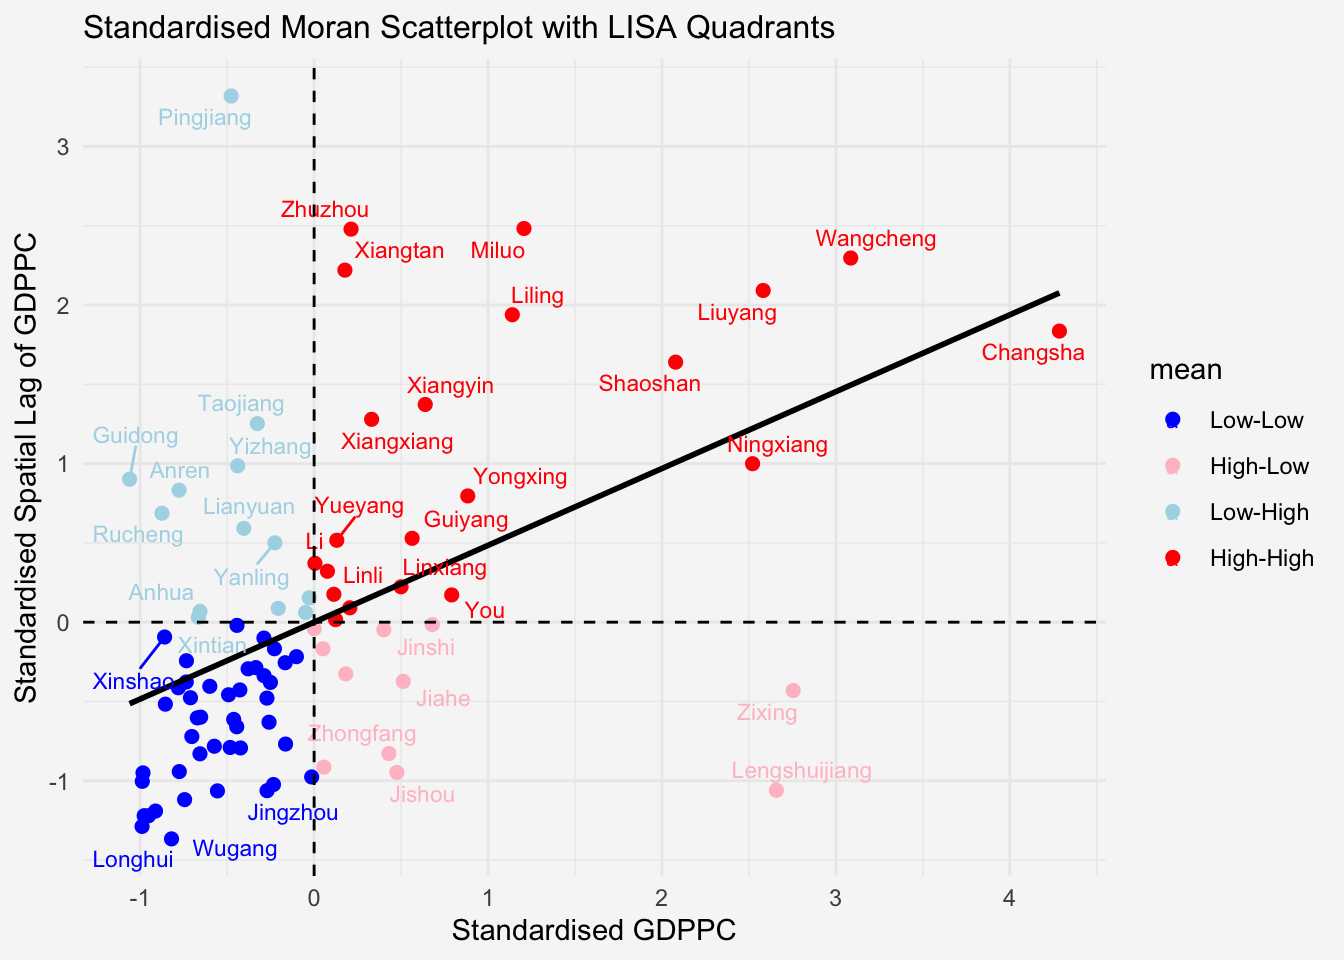
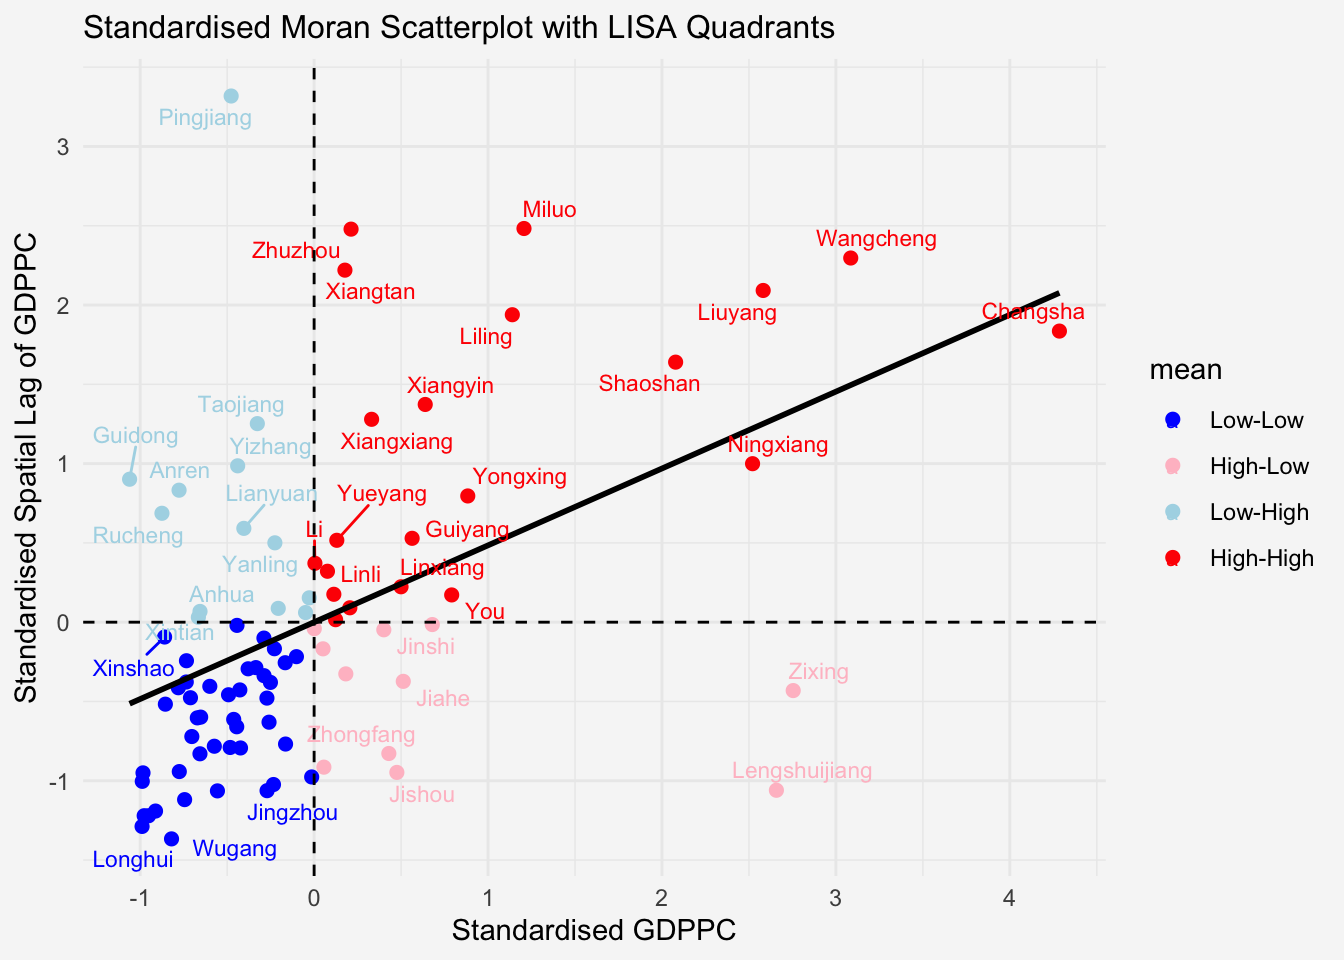
Hands-on Ex05

diff --git a/_site/Hands-on/Hands-on-Ex05/Hands-on-Ex05.b.html b/_site/Hands-on/Hands-on-Ex05/Hands-on-Ex05.b.html
@@ -231,15 +231,15 @@ pre > code.sourceCode > span > a:first-child::before { text-decoration: underlin
   <li><a href="#visualize-regional-development-indicator" id="toc-visualize-regional-development-indicator" class="nav-link" data-scroll-target="#visualize-regional-development-indicator">3 Visualize Regional Development Indicator</a></li>
   <li><a href="#local-indicators-of-spatial-associationlisa" id="toc-local-indicators-of-spatial-associationlisa" class="nav-link" data-scroll-target="#local-indicators-of-spatial-associationlisa">4 Local Indicators of Spatial Association(LISA)</a>
   <ul class="collapse">
-  <li><a href="#computing-contiguity-spatial-weights" id="toc-computing-contiguity-spatial-weights" class="nav-link" data-scroll-target="#computing-contiguity-spatial-weights">4.1 <strong>Computing Contiguity Spatial Weights</strong></a></li>
+  <li><a href="#computing-contiguity-spatial-weights" id="toc-computing-contiguity-spatial-weights" class="nav-link" data-scroll-target="#computing-contiguity-spatial-weights">4.1 Computing Contiguity Spatial Weights</a></li>
   <li><a href="#row-standardised-weights-matrix" id="toc-row-standardised-weights-matrix" class="nav-link" data-scroll-target="#row-standardised-weights-matrix">4.2 Row-standardised Weights Matrix</a></li>
-  <li><a href="#computing-local-morans-i" id="toc-computing-local-morans-i" class="nav-link" data-scroll-target="#computing-local-morans-i"><strong>4.3&nbsp;Computing local Moran’s I</strong></a>
+  <li><a href="#computing-local-morans-i" id="toc-computing-local-morans-i" class="nav-link" data-scroll-target="#computing-local-morans-i">4.3&nbsp;Computing Local Moran’s I</a>
   <ul class="collapse">
   <li><a href="#mapping-local-morans-i-values" id="toc-mapping-local-morans-i-values" class="nav-link" data-scroll-target="#mapping-local-morans-i-values">4.3.1&nbsp;Mapping local Moran’s I values</a></li>
-  <li><a href="#mapping-local-morans-i-p-values" id="toc-mapping-local-morans-i-p-values" class="nav-link" data-scroll-target="#mapping-local-morans-i-p-values"><strong>4.3.2 Mapping local Moran’s I p-values</strong></a></li>
-  <li><a href="#mapping-both-local-morans-i-values-and-p-values" id="toc-mapping-both-local-morans-i-values-and-p-values" class="nav-link" data-scroll-target="#mapping-both-local-morans-i-values-and-p-values"><strong>4.3.3</strong> Mapping both local Moran’s I values and p-values</a></li>
+  <li><a href="#mapping-local-morans-i-p-values" id="toc-mapping-local-morans-i-p-values" class="nav-link" data-scroll-target="#mapping-local-morans-i-p-values">4.3.2 Mapping local Moran’s I p-values</a></li>
+  <li><a href="#mapping-both-local-morans-i-values-and-p-values" id="toc-mapping-both-local-morans-i-values-and-p-values" class="nav-link" data-scroll-target="#mapping-both-local-morans-i-values-and-p-values">4.3.3 Mapping both local Moran’s I values and p-values</a></li>
   </ul></li>
-  <li><a href="#preparing-and-visualising-lisa-map" id="toc-preparing-and-visualising-lisa-map" class="nav-link" data-scroll-target="#preparing-and-visualising-lisa-map"><strong>4.4&nbsp;Preparing and Visualising LISA Map</strong></a>
+  <li><a href="#preparing-and-visualising-lisa-map" id="toc-preparing-and-visualising-lisa-map" class="nav-link" data-scroll-target="#preparing-and-visualising-lisa-map">4.4&nbsp;Preparing and Visualising LISA Map</a>
   <ul class="collapse">
   <li><a href="#plotting-moran-scatterplot" id="toc-plotting-moran-scatterplot" class="nav-link" data-scroll-target="#plotting-moran-scatterplot">4.4.1 Plotting Moran scatterplot</a></li>
   <li><a href="#plotting-moran-scatterplot-with-standardised-variable" id="toc-plotting-moran-scatterplot-with-standardised-variable" class="nav-link" data-scroll-target="#plotting-moran-scatterplot-with-standardised-variable">4.4.2 Plotting Moran scatterplot with standardised variable</a></li>
@@ -869,7 +869,7 @@ Note
 <p>For instance if we are studying distribution of GDP per capita of Hunan Provice, People Republic of China, <strong>local clusters</strong> in GDP per capita mean that there are counties that have higher or lower rates than is to be expected by chance alone;The idea is to see whether these patterns are&nbsp;<strong>just random</strong>&nbsp;or statistically significant.</p>
 <p>In this section, we will learn how to apply appropriate Local Indicators for Spatial Association (LISA), especially local Moran’I to detect cluster and/or outlier from GDP per capita 2012 of Hunan Province, PRC.</p>
 <section id="computing-contiguity-spatial-weights" class="level2">
-<h2 class="anchored" data-anchor-id="computing-contiguity-spatial-weights">4.1 <strong>Computing Contiguity Spatial Weights</strong></h2>
+<h2 class="anchored" data-anchor-id="computing-contiguity-spatial-weights">4.1 Computing Contiguity Spatial Weights</h2>
 <p>Before we can compute the local spatial autocorrelation statistics, we need to construct a spatial weights of the study area. The spatial weights is used to define the neighbourhood relationships between the geographical units (i.e.&nbsp;county) in the study area.</p>
 <p>In the code chunk below,&nbsp;<a href="https://sfdep.josiahparry.com/reference/st_contiguity"><code>st_contiguity()</code></a>&nbsp;of&nbsp;<strong>sfdep</strong>&nbsp;package is used to compute contiguity weight matrices for the study area. This function builds a neighbours list based on regions with contiguous boundaries. If you look at the documentation you will see that you can pass a “queen” argument that takes TRUE or FALSE as options. If you do not specify this argument the default is set to TRUE, that is, if you don’t specify queen = FALSE this function will return a list of first order neighbours using the Queen criteria.</p>
 <p>Next,&nbsp;<a href="https://sfdep.josiahparry.com/reference/st_weights"><code>st_weights()</code></a>&nbsp;is used to calculate polygon spatial weights from the&nbsp;<em>nb</em>&nbsp;list.</p>
@@ -940,7 +940,7 @@ How to read the result?
 </div>
 </section>
 <section id="computing-local-morans-i" class="level2">
-<h2 class="anchored" data-anchor-id="computing-local-morans-i"><strong>4.3&nbsp;Computing local Moran’s I</strong></h2>
+<h2 class="anchored" data-anchor-id="computing-local-morans-i">4.3&nbsp;Computing Local Moran’s I</h2>
 <p>To compute local Moran’s I, the&nbsp;<a href="https://sfdep.josiahparry.com/reference/local_moran"><code>local_moran()</code></a>&nbsp;function of&nbsp;<strong>sfdep</strong>&nbsp;will be used. It computes&nbsp;<em>Ii</em>values, given a set of&nbsp;<em>zi</em>&nbsp;values and a listw object providing neighbour weighting information for the polygon associated with the zi values.</p>
 <table class="caption-top table">
 <colgroup>
@@ -994,14 +994,14 @@ How to read the result?
 <pre><code>Rows: 88
 Columns: 21
 $ ii           &lt;dbl&gt; -1.468468e-03, 2.587817e-02, -1.198765e-02, 1.022468e-03,…
-$ eii          &lt;dbl&gt; -9.878494e-04, -4.886356e-03, -8.334571e-02, 2.082311e-04…
-$ var_ii       &lt;dbl&gt; 4.658196e-04, 9.471085e-03, 7.824251e-02, 3.831492e-06, 1…
-$ z_ii         &lt;dbl&gt; -0.022268524, 0.316118852, 0.255106608, 0.415974494, 0.35…
-$ p_ii         &lt;dbl&gt; 9.822338e-01, 7.519123e-01, 7.986408e-01, 6.774287e-01, 7…
-$ p_ii_sim     &lt;dbl&gt; 0.92, 0.84, 0.74, 0.72, 0.66, 0.84, 0.04, 0.12, 0.02, 0.1…
-$ p_folded_sim &lt;dbl&gt; 0.46, 0.42, 0.37, 0.36, 0.33, 0.42, 0.02, 0.06, 0.01, 0.0…
-$ skewness     &lt;dbl&gt; -0.8812183, -1.0283691, 0.8228980, 0.4041690, 1.0867959, …
-$ kurtosis     &lt;dbl&gt; 0.912392930, 1.507115644, 0.350060537, -0.284243738, 1.44…
+$ eii          &lt;dbl&gt; 2.239949e-03, 7.357741e-03, -2.276138e-02, 2.113699e-05, …
+$ var_ii       &lt;dbl&gt; 4.192853e-04, 8.167525e-03, 1.069188e-01, 5.763497e-06, 1…
+$ z_ii         &lt;dbl&gt; -0.181106344, 0.204930150, 0.032948774, 0.417094523, 0.51…
+$ p_ii         &lt;dbl&gt; 0.8562841049, 0.8376266986, 0.9737154375, 0.6766092708, 0…
+$ p_ii_sim     &lt;dbl&gt; 0.86, 1.00, 0.78, 0.66, 0.58, 0.70, 0.08, 0.14, 0.04, 0.1…
+$ p_folded_sim &lt;dbl&gt; 0.43, 0.50, 0.39, 0.33, 0.29, 0.35, 0.04, 0.07, 0.02, 0.0…
+$ skewness     &lt;dbl&gt; -0.7051429, -0.6513071, 0.9394877, 0.7189413, 0.6476455, …
+$ kurtosis     &lt;dbl&gt; 0.15983550, 0.27939794, 0.65047800, -0.27697090, -0.76801…
 $ mean         &lt;fct&gt; Low-High, Low-Low, High-Low, High-High, High-High, High-L…
 $ median       &lt;fct&gt; High-High, High-High, High-High, High-High, High-High, Hi…
 $ pysal        &lt;fct&gt; Low-High, Low-Low, High-Low, High-High, High-High, High-L…
@@ -1047,7 +1047,7 @@ $ geometry     &lt;POLYGON [m]&gt; POLYGON ((22320.48 3301894,..., POLYGON ((355
 </div>
 </section>
 <section id="mapping-local-morans-i-p-values" class="level3">
-<h3 class="anchored" data-anchor-id="mapping-local-morans-i-p-values"><strong>4.3.2 Mapping local Moran’s I p-values</strong></h3>
+<h3 class="anchored" data-anchor-id="mapping-local-morans-i-p-values">4.3.2 Mapping local Moran’s I p-values</h3>
 <p>The choropleth shows there is evidence for both positive and negative Ii values. However, it is useful to consider the p-values for each of these values, as consider above.</p>
 <p>The code chunks below produce a choropleth map of Moran’s I p-values by using functions of&nbsp;<strong>tmap</strong>&nbsp;package.</p>
 <div class="cell">
@@ -1078,7 +1078,7 @@ $ geometry     &lt;POLYGON [m]&gt; POLYGON ((22320.48 3301894,..., POLYGON ((355
 </div>
 </section>
 <section id="mapping-both-local-morans-i-values-and-p-values" class="level3">
-<h3 class="anchored" data-anchor-id="mapping-both-local-morans-i-values-and-p-values"><strong>4.3.3</strong> Mapping both local Moran’s I values and p-values</h3>
+<h3 class="anchored" data-anchor-id="mapping-both-local-morans-i-values-and-p-values">4.3.3 Mapping both local Moran’s I values and p-values</h3>
 <p>For effective interpretation, it is better to plot both the local Moran’s I values map and its corresponding p-values map next to each other.</p>
 <p>The code chunk below will be used to create such visualisation.</p>
 <div class="cell">
@@ -1111,7 +1111,7 @@ Result Interpretation
 </section>
 </section>
 <section id="preparing-and-visualising-lisa-map" class="level2">
-<h2 class="anchored" data-anchor-id="preparing-and-visualising-lisa-map"><strong>4.4&nbsp;Preparing and Visualising LISA Map</strong></h2>
+<h2 class="anchored" data-anchor-id="preparing-and-visualising-lisa-map">4.4&nbsp;Preparing and Visualising LISA Map</h2>
 <p>Visualizing LISA involves creating maps that highlight significant spatial patterns, such as hot spots (high values clustered together) and cold spots (low values clustered together), as well as identifying spatial outliers. Common methods include choropleth maps showing LISA values, Moran scatterplots which depict local spatial autocorrelation for individual locations, and hot spot analysis maps.</p>
 <p>The LISA Cluster Map shows the significant locations color coded by type of spatial autocorrelation. The first step before we can generate the LISA cluster map is to plot the Moran scatterplot.</p>
 <section id="plotting-moran-scatterplot" class="level3">

diff --git a/_site/about.html b/_site/about.html
@@ -308,7 +308,7 @@ Sep 25, 2025
 </div>
 </a>
 </div>
-<div class="g-col-1" data-index="1" data-listing-date-sort="1758729600000" data-listing-file-modified-sort="1758817294384" data-listing-date-modified-sort="1758817294000" data-listing-reading-time-sort="22" data-listing-word-count-sort="4327">
+<div class="g-col-1" data-index="1" data-listing-date-sort="1758729600000" data-listing-file-modified-sort="1758818027756" data-listing-date-modified-sort="1758818027000" data-listing-reading-time-sort="22" data-listing-word-count-sort="4327">
 <a href="./Hands-on/Hands-on-Ex05/Hands-on-Ex05.b.html" class="quarto-grid-link">
 <div class="quarto-grid-item card h-100 card-left">
 <p class="card-img-top"><img src="Hands-on/Hands-on-Ex05/Hands-on-Ex05.b_files/figure-html/unnamed-chunk-4-1.png" style="height: 150px;"  class="thumbnail-image card-img"/></p>
